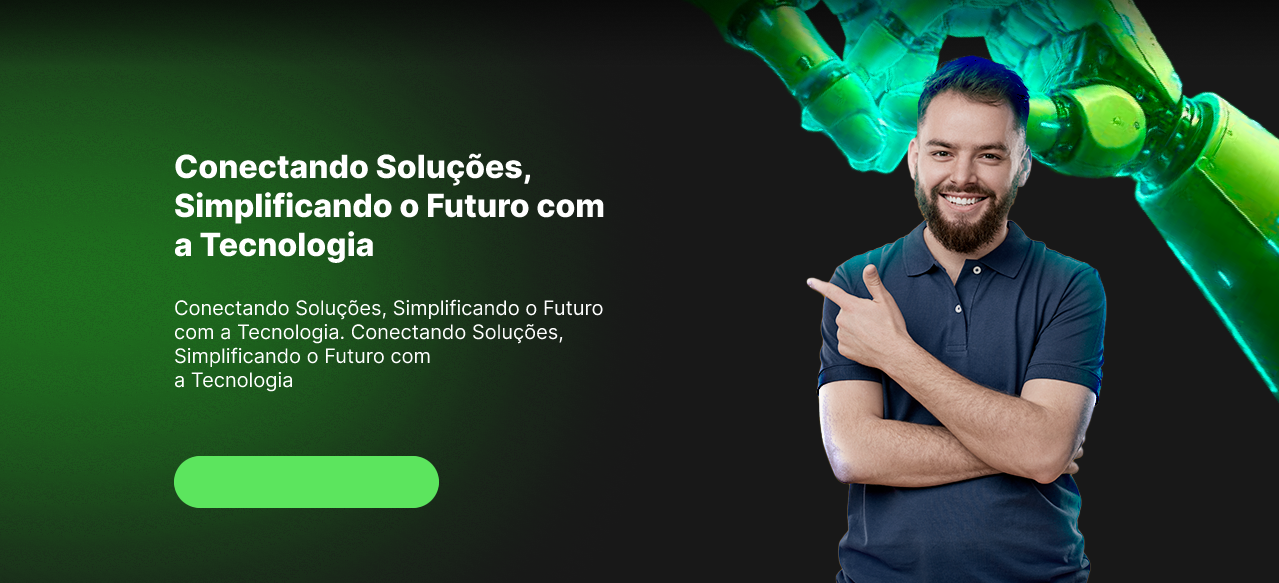
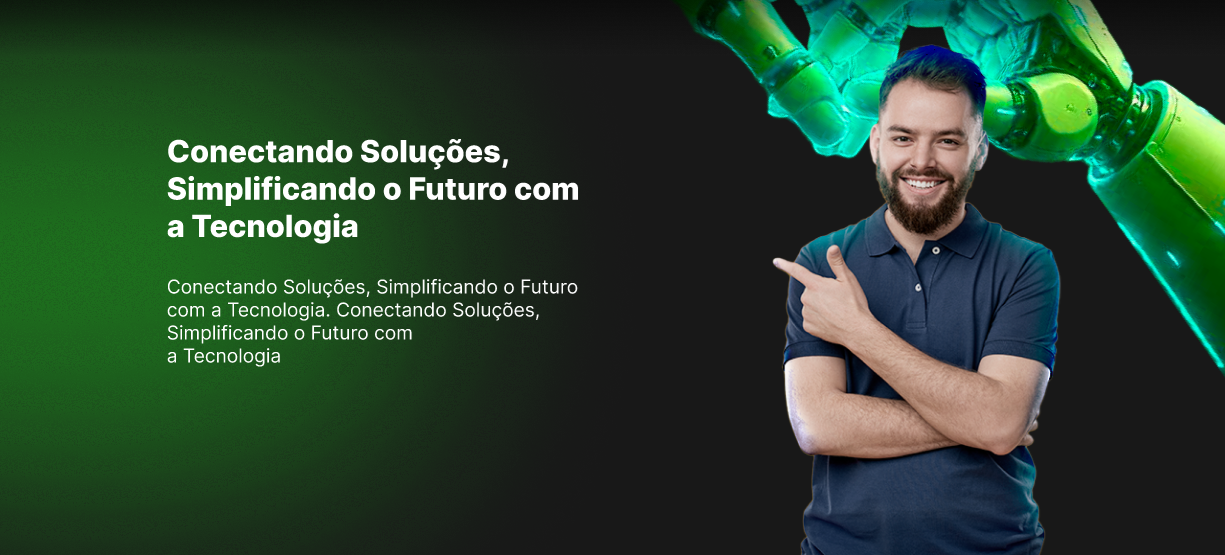
Add files via upload

diff --git a/styles/style.css b/styles/style.css
@@ -1,11 +1,40 @@
+@media (max-width: 1200px) {
+    /* Ajustes para larguras até 1200 pixels */
+}
+   
+@media (max-width: 992px) {
+    /* Ajustes para larguras até 992 pixels */
+}
+   
+@media (max-width: 768px) {
+    /* Ajustes para larguras até 768 pixels */
+}
+   
+@media (max-width: 576px) {
+    /* Ajustes para larguras até 576 pixels */
+}
+
+@media (orientation: portrait) {
+    /* Estilos para dispositivos em modo retrato */
+    }
+    
+@media (orientation: landscape) {
+/* Estilos para dispositivos em modo paisagem */
+}
+
 body {
-    background-color: black;
+    background-color: rgb(0, 0, 0);
     color: white;
+    display: flex;
+    flex-direction: column;
+    align-items: center;
+    margin: 0;
 }
 
 nav {
-    width: 100vw;
-    height: 45px;
+    background-color: black;
+    width: 1225px;
+    height: 60px;
     position: fixed;
 }
 
@@ -14,11 +43,15 @@ nav ul {
     align-items: center;
     justify-content: center;
     list-style: none;
-    margin-left: -66px;
 }
 
 nav ul li {
-    margin: 0 20px;
+    margin: 0 10px;
+    padding: 0 10px;
+}
+
+nav ul li:hover {
+    background-color: #1D6F1D;
 }
 
 a {
@@ -29,19 +62,17 @@ a {
     color: rgb(255, 255, 255);
 }
 
-
-
-
 .container {
     display: flex;
     flex-direction: column;
     align-items: center;
+    margin-top: 60px;
 }
 
 .header {
     background-image: url(../img/cabeçalho.png);
     width: 100vw;
-    height: 55px;
+    height: 106px;
     background-repeat: no-repeat;
     background-position: center;
 }
@@ -49,7 +80,7 @@ a {
 .section1 {
     background-image: url(../img/secao1.png);
     width: 100vw;
-    height: 583px;
+    height: 555px;
     background-repeat: no-repeat;
     background-position: center;
 }
@@ -57,7 +88,7 @@ a {
 .section2 {
     background-image: url(../img/secao2.png);
     width: 100vw;
-    height: 513px;
+    height: 495px;
     background-repeat: no-repeat;
     background-position: center;
 }
@@ -81,7 +112,7 @@ a {
 .footer {
     background-image: url(../img/rodape.png);
     width: 100vw;
-    height: 332px;
+    height: 325px;
     background-repeat: no-repeat;
     background-position: center;
 }

diff --git a/index.html b/index.html
@@ -20,6 +20,7 @@
     </nav>
 
     <div class="container">
+
         <header class="header"></header>
         <section class="section1" id="sobre"></section>
         <section class="section2" id="habilidades"></section>
